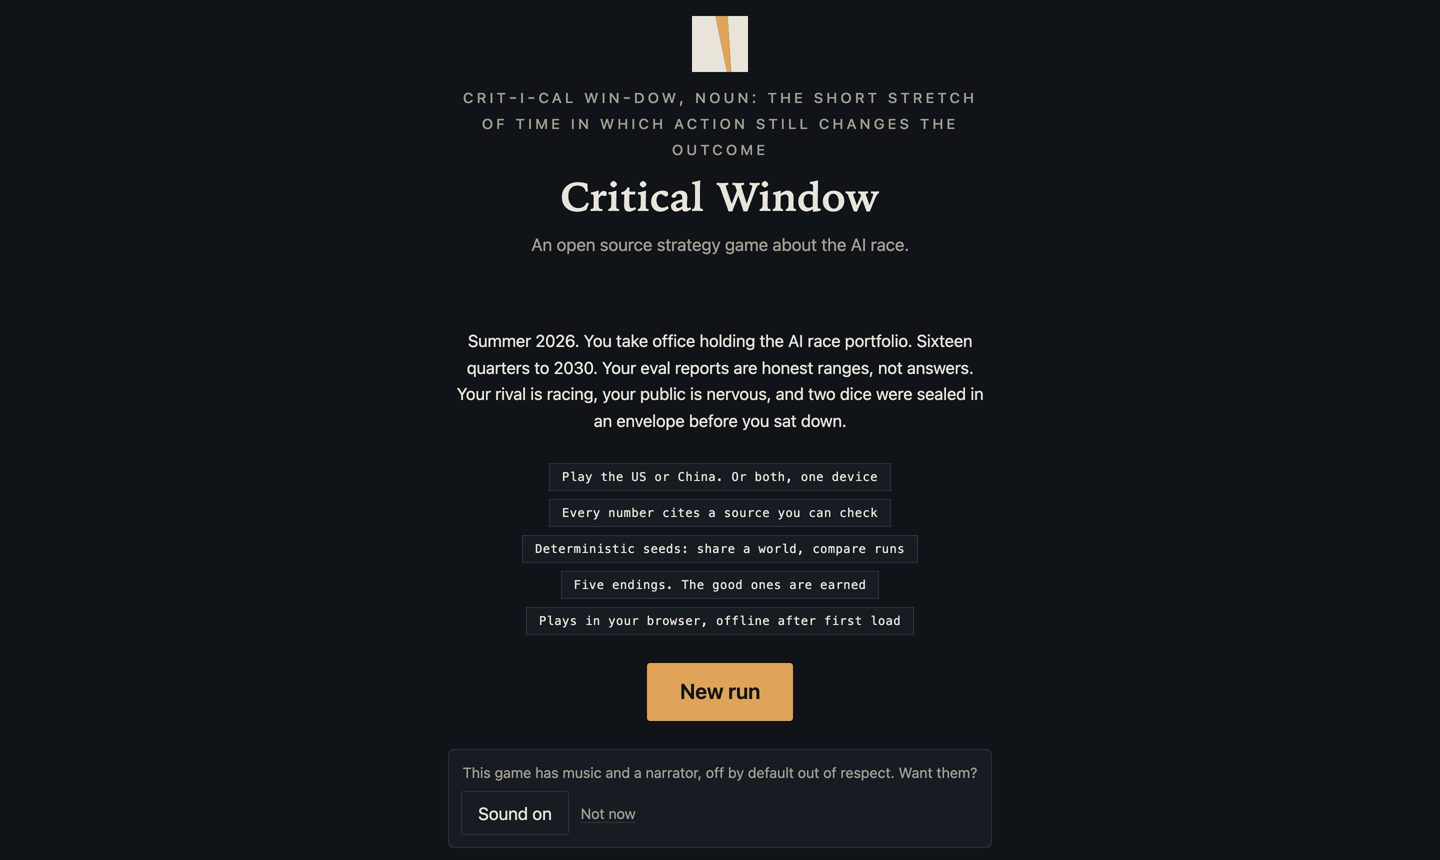
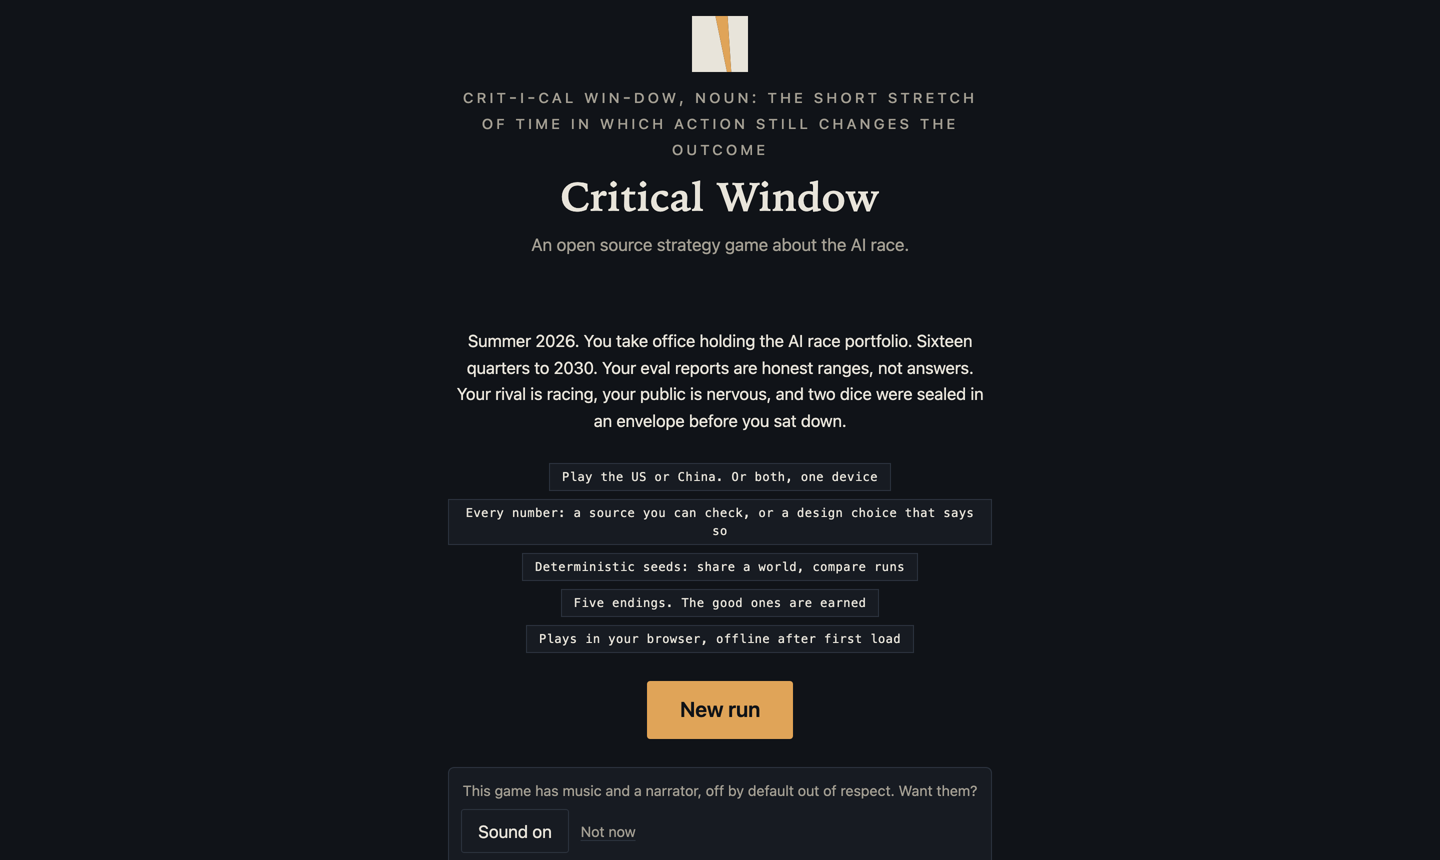
refine: the front of house speaks precisely
The pitch now says what the system does: every number is source-backed
or a design choice that says so, on the landing page, the title screen
and the README. Setup opens with a one-click recommended first run and
honest expectations (most first terms end badly; the debrief is the
payoff). The debrief takes feedback by email as well as issues. Who
makes this names the small human core and its heavy AI assistance,
pointing at governance for the whole story. Reader links pin to the
release. Governance and contributing state today's reality before
tomorrow's structure, and the paper-trail wording around narration,
provenance hashes and the play sample is exact.

Changed region(s): [[0.3125, 0.6349, 0.6875, 0.9977], [0.3125, 0.5744, 0.6875, 0.6047]]

diff --git a/src/ui/screens/Setup.tsx b/src/ui/screens/Setup.tsx
@@ -36,6 +36,17 @@ export function Setup() {
         <p className="panel-explain">{t('setup.presetExplain')}</p>
       </header>
 
+      <div className="panel quickstart">
+        <button
+          type="button"
+          className="btn btn-primary btn-big"
+          onClick={() => startRun(rollSeed(), 'consensus', 'solo', 'usa')}
+        >
+          {t('setup.quickStart')}
+        </button>
+        <p className="panel-explain">{t('setup.quickStartHint')}</p>
+      </div>
+
       <div className="preset-grid" role="radiogroup" aria-label={t('setup.heading')}>
         {WORLDVIEW_PRESET_IDS.map((id) => {
           const preset = data.parameters.worldviewPresets[id];

diff --git a/src/ui/app.css b/src/ui/app.css
@@ -1726,3 +1726,9 @@ body {
 .screen-loading {
   min-height: 100vh;
 }
+
+.quickstart {
+  display: grid;
+  gap: var(--space-2);
+  justify-items: start;
+}

diff --git a/src/ui/screens/Debrief.tsx b/src/ui/screens/Debrief.tsx
@@ -296,6 +296,10 @@ export function Debrief() {
         <button type="button" className="btn" onClick={() => goTo('sources')}>
           {t('debrief.sources.browse')}
         </button>
+        <p className="panel-explain">
+          {t('debrief.emailAsk')}{' '}
+          <a href="mailto:[email redacted]">[email redacted]</a>
+        </p>
         <details>
           <summary>{t('debrief.sources.link')}</summary>
           <SourceChips

diff --git a/src/ui/screens/Sources.tsx b/src/ui/screens/Sources.tsx
@@ -190,7 +190,7 @@ export function Sources() {
       )}
 
       <p className="sources-legend sources-build">
-        {t('sources.dataVersion', { hash: data.dataVersion })}
+        {t('sources.dataVersion', { sha: __COMMIT_SHA__, hash: data.dataVersion })}
       </p>
     </main>
   );

diff --git a/src/ui/screens/Title.tsx b/src/ui/screens/Title.tsx
@@ -39,7 +39,7 @@ export function Title() {
           <path d="M440 72 H 306 L 330 440 H 440 Z" fill="var(--ink)" />
           <path d="M226 72 H 306 L 330 440 H 302 Z" fill="var(--accent)" />
         </svg>
-        <p className="title-kicker">{t('app.workingTitleNote')}</p>
+        <p className="title-kicker">{t('app.definition')}</p>
         <h1 className="title-name">{t('app.title')}</h1>
         <p className="title-tagline">{t('app.tagline')}</p>
         <div className="title-race" aria-hidden="true">

diff --git a/CONTRIBUTING.md b/CONTRIBUTING.md
@@ -6,7 +6,7 @@ There are two ways in, and the one without code matters at least as much.
 
 **Check a source.** Every number in the game cites an entry in `data/sources.json`. Sources rot, papers get revised, better data appears. Open an issue titled `source: ...` with what you found. This is the single most useful small contribution.
 
-**Challenge a number.** [docs/EVIDENCE.md](docs/EVIDENCE.md) lists every cited value and its evidence. If you think one is wrong, open a "challenge a number" issue with a better source and your proposed value. Disagreement with evidence attached is the project working as designed.
+**Challenge a number.** [docs/EVIDENCE.md](docs/EVIDENCE.md) lists every cited value and its evidence. If you think one is wrong, open a "challenge a number" issue with a better source and your proposed value. Disagreement with evidence attached is exactly what the registry is for.
 
 **Wire a source to a mechanic.** SOURCES.md keeps an honest ledger: some sources back numbers, some shaped the design, some are just the shelf. Promoting a shelf source into one that backs an actual value, with the figure quoted, is a small PR with real weight.
 
@@ -23,10 +23,11 @@ There are two ways in, and the one without code matters at least as much.
 ```
 pnpm install
 pnpm dev
-pnpm test && pnpm validate && pnpm lint && pnpm typecheck
+pnpm check        # validate + lint + typecheck + test + build, same as CI
+pnpm check:full   # adds the browser suite (needs: pnpm exec playwright install chromium)
 ```
 
-All four must pass. CI runs the same chain.
+`pnpm check` must pass; run `check:full` when you touch the UI.
 
 **The engine is pure.** `src/engine/` is a deterministic fold: `step(state, action, rng)`. No `Math.random`, no `Date`, no fetch, no storage, no transcendental `Math` functions (their results differ across JS engines and would break replays). Lint enforces every one of these. If your change fights the lint, the design needs to change, not the lint.
 
@@ -50,4 +51,4 @@ That adds `Signed-off-by: you <your@email>`, which certifies you have the right 
 
 ## What happens to your contribution
 
-Small fixes: quick review, merge. Cards and content: a maintainer checks sources and the dilemma rule, then it enters playtest rotation. Realism disputes go to the advisory board once it exists (see GOVERNANCE.md). We aim to respond within two days, kindly. Contributors land in the in-game credits.
+Small fixes: quick review, merge. Cards and content: a maintainer checks sources and the dilemma rule, then it enters playtest rotation. Realism disputes are decided by the maintainer in public issues today; an advisory board takes that role if the project earns one (see GOVERNANCE.md). We aim to respond within two days, kindly; this is a single-maintainer project today, so busy weeks may run slower. Contributors land in the in-game credits.

diff --git a/README.md b/README.md
@@ -4,7 +4,7 @@
 
 <p align="center"><b>An open source strategy game about the AI race.</b></p>
 
-<p align="center">Nonprofit · No accounts, no tracking, ever · Works offline · Every number cites a source</p>
+<p align="center">Nonprofit · No accounts, no tracking, ever · Works offline · Every number: a source you can check, or a design choice that says so</p>
 
 <p align="center">
 <a href="https://github.com/chipmates/criticalwindow/actions/workflows/ci.yml"><img src="https://github.com/chipmates/criticalwindow/actions/workflows/ci.yml/badge.svg" alt="CI"></a>
@@ -19,7 +19,7 @@
 
 ## Play
 
-**Play now: [criticalwindow.org](https://criticalwindow.org)** (mirror: [criticalwindow.pages.dev](https://criticalwindow.pages.dev)). It works on phones, installs from the browser as an app, and keeps working offline after the first load.
+**Play now: [criticalwindow.org](https://criticalwindow.org)**. It works on phones, installs from the browser as an app, and keeps working offline after the first load.
 
 Or clone and run it locally:
 
@@ -73,11 +73,11 @@ The engine is a pure deterministic fold: same seed, same run, on every machine. 
 
 ## Sound
 
-Off by default, everything works silent. Music by Scott Buckley (CC BY 4.0), see [CREDITS.md](CREDITS.md). Voice narration is generated at build time from the game's own displayed text; nothing talks to a server while you play.
+Off by default, everything works silent. Music by Scott Buckley (CC BY 4.0), see [CREDITS.md](CREDITS.md). Voice narration is generated ahead of time by maintainers from the game's own displayed text and ships as static files; it caches for offline play the first time a clip plays, and nothing talks to a server while you play.
 
 ## Who makes this
 
-Critical Window is a project of ChipMates gemeinnuetzige GmbH, a German nonprofit. No revenue, no ads, no investors; if grants ever fund this, the funders get named in [GOVERNANCE.md](GOVERNANCE.md), which also explains how this project is built and who answers for it. Contact: [email redacted]. Legal: [imprint](https://criticalwindow.org/imprint.html) and [privacy](https://criticalwindow.org/privacy.html).
+Critical Window is a project of ChipMates gemeinnuetzige GmbH, a German nonprofit, built by a very small human core working with heavy AI assistance; how and why is spelled out in [GOVERNANCE.md](GOVERNANCE.md), and the whole trust architecture exists so you never have to take anyone's word for anything, human or machine. No revenue, no ads, no investors; if grants ever fund this, the funders get named in [GOVERNANCE.md](GOVERNANCE.md), which also explains how this project is built and who answers for it. Contact: [email redacted]. Legal: [imprint](https://criticalwindow.org/imprint.html) and [privacy](https://criticalwindow.org/privacy.html).
 
 ## License
 

diff --git a/docs/BALANCE.md b/docs/BALANCE.md
@@ -24,9 +24,9 @@ literally, and less cleverly, than a curious teenager or a policy wonk who reads
 Neither one gets bored, distracted, or attached to a losing plan out of stubbornness the
 way a person does.
 
-We do not have a large human playtest yet. As of this writing it is single digits: one
-person, a handful of sessions. Everything in this document is evidence that the trap
-works as designed. It is not yet evidence that the game is good. That gate is human by
+We do not have a large human playtest yet; the sessions so far are few and all from
+inside the project, and the public alpha exists precisely to change that. Everything in
+this document is evidence that the trap works as designed. It is not yet evidence that the game is good. That gate is human by
 definition, and it has not been pulled yet. [`ROADMAP.md`](../ROADMAP.md) says so directly
 and will keep saying so until real players change it.
 

diff --git a/docs/DESIGN.md b/docs/DESIGN.md
@@ -8,7 +8,7 @@ A nonprofit education project. No revenue, no ads, no tracking, ever. Fully open
 
 The game is a strategy simulation of the AI race. You take a seat, the United States or China, solo or hotseat on one device, from 2026 through the critical window around 2030. You win, lose, or discover that winning was the wrong frame.
 
-Why it exists: most people meet the AI race through headlines, and headlines do not teach how traps work. Intelligence Rising, the facilitated academic wargame, proves the pedagogy at the scale of hundreds of players a year (SRC-AI-FUTURES-ROLEPLAY, SRC-SIM-GAMING-INSIGHTS); this project is the attempt to ship the scalable public version. Plague Inc and AI 2027 prove the reach potential.
+Why it exists: most people meet the AI race through headlines, and headlines do not teach how traps work. Intelligence Rising, the facilitated academic wargame, proves the pedagogy at the scale of hundreds of players a year (SRC-AI-FUTURES-ROLEPLAY, SRC-SIM-GAMING-INSIGHTS); this project is the attempt to ship the scalable public version. Plague Inc and AI 2027 suggest the reach is there for the taking.
 
 Audience, in order: the curious internet public and light strategy gamers; classrooms 16 to 25, whose constraints (Chromebooks, 40-minute sessions, no accounts) shape the tech; policy workshops.
 
@@ -57,11 +57,11 @@ Doom fatigue produces fatalism, which is the opposite of the mission. The good e
 
 ## 8. The debrief
 
-The education lands after the run ends, which is where the learning-science evidence says it works (SRC-WOUTERS-2013): what happened, which takeaways surfaced, counterfactual hints ("the treaty window was open on turn 7"), the truth chart showing what your evals said each quarter against what was actually true, every final number translated back to its real-world anchor, and the sources one click away. It closes with a provocation: what did this game get wrong? That question is the contributor funnel, and the project's north-star metric is completed debriefs.
+The education lands after the run ends, which is where the learning-science evidence says it works (SRC-WOUTERS-2013): what happened, which takeaways surfaced, counterfactual hints ("the treaty window was open on turn 12"), the truth chart showing what your evals said each quarter against what was actually true, every final number translated back to its real-world anchor, and the sources one click away. It closes with a provocation: what did this game get wrong? That question is the contributor funnel, and the project's north-star metric is completed debriefs.
 
 ## 9. Where the numbers come from
 
-Every number in the game data cites a source, the rule is machine-enforced in both directions, and [`EVIDENCE.md`](EVIDENCE.md) lists every cited value with its evidence and derivation. Numbers come in three kinds, labeled: measured (empirical evidence), forecast-based or analysis-based (somebody's argument, with the most contested dials living as preset ranges), and design choices, which cite this constitution and claim nothing about the world. Disagree with a value? Open a challenge-a-number issue with a source. That argument is the project working as designed.
+Every number in the game data cites a source, the rule is machine-enforced in both directions, and [`EVIDENCE.md`](EVIDENCE.md) lists every cited value with its evidence and derivation. Numbers come in three kinds, labeled: measured (empirical evidence), forecast-based or analysis-based (somebody's argument, with the most contested dials living as preset ranges), and design choices, which cite this constitution and claim nothing about the world. Disagree with a value? Open a challenge-a-number issue with a source; that is the invitation, not a nuisance.
 
 ## 10. How decisions get made
 

diff --git a/docs/DEPLOY.md b/docs/DEPLOY.md
@@ -8,8 +8,6 @@ The game is a static build, deployed to Cloudflare Pages.
 3. `criticalwindow.org` is the canonical home; `criticalwindow.pages.dev` is the same
    deployment under the host's default name.
 
-Verifying a deployment against this repository: the Sources screen in the game shows
-the build's data-version hash. Check out the matching commit, run `pnpm build`, and
-compare. The `public/_headers` file sets a Content-Security-Policy of `default-src 'self'`,
+Verifying a deployment against this repository: the Sources screen in the game shows the running build's commit and its data-version hash (the hash covers all game data; the commit pins the code). Check out that commit, run `pnpm build`, and compare. The `public/_headers` file sets a Content-Security-Policy of `default-src 'self'`,
 so the browser itself refuses any request to a foreign host, which makes the
 no-external-calls promise enforced rather than merely claimed.

diff --git a/.github/PULL_REQUEST_TEMPLATE.md b/.github/PULL_REQUEST_TEMPLATE.md
@@ -4,7 +4,7 @@
 
 ## Checklist
 
-- [ ] `pnpm validate && pnpm lint && pnpm typecheck && pnpm test` pass locally
+- [ ] `pnpm check` passes (and `pnpm check:full` if you touched the UI)
 - [ ] Commits are signed off (`git commit -s`, see CONTRIBUTING.md, no CLA, you keep copyright)
 - [ ] If this changes a value in `data/`: the source ID is named below and exists in `data/sources.json`
 - [ ] If this touches `src/engine/`: no new ambient state, determinism tests still pass

diff --git a/GOVERNANCE.md b/GOVERNANCE.md
@@ -12,7 +12,7 @@ be disclosed in this file. Contact: [email redacted].
 about scope, design, releases, and moderation rest there. As regular contributors emerge,
 core membership grows by invitation of the existing core, and this file records each change.
 
-**Realism disputes resolve toward honesty, not authority.** When contributors disagree
+**Realism disputes resolve toward honesty, not authority.** Today that means the maintainer decides, in public issues, with the reasoning on the record. When contributors disagree
 about what is realistic (a parameter range, a rival behavior, an event's plausibility),
 the ladder is: a better source wins; failing that, the disagreement becomes a wider
 uncertainty range or a worldview-preset difference, so the game carries the dispute